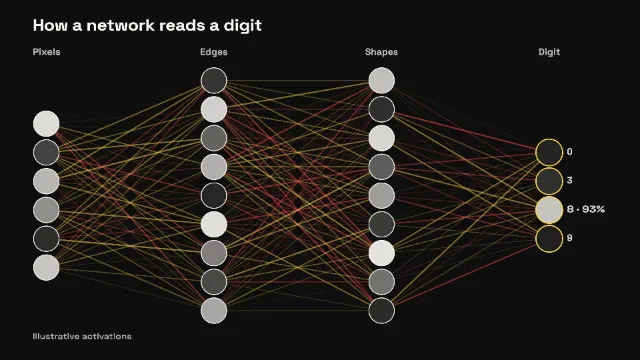
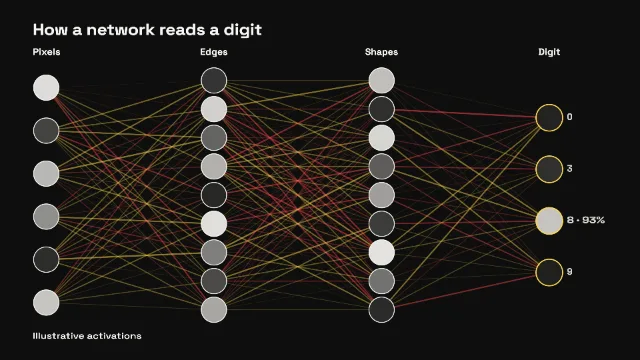
feat(figures): smaller neural-network layers spread for label room; refreshed poster

diff --git a/src/lib/utils/figure-layout-layered.ts b/src/lib/utils/figure-layout-layered.ts
@@ -33,8 +33,11 @@ export function layoutFigureLayered(
 	const crossCenter = direction === 'right' ? box.y + box.height / 2 : box.x + box.width / 2;
 	const centers = layerSizes.map((size, layerIndex) => {
 		const main = mainStart + layerGap * layerIndex;
+		// Smaller layers spread out (up to 1.8× the shared pitch) so their labels
+		// have room and the network keeps its centred, tapering silhouette.
+		const layerPitch = Math.min(crossLength / size, pitch * 1.8);
 		return Array.from({ length: size }, (_, index) => {
-			const cross = crossCenter + (index - (size - 1) / 2) * pitch;
+			const cross = crossCenter + (index - (size - 1) / 2) * layerPitch;
 			return direction === 'right'
 				? { x: roundFigurePixel(main), y: roundFigurePixel(cross) }
 				: { x: roundFigurePixel(cross), y: roundFigurePixel(main) };
